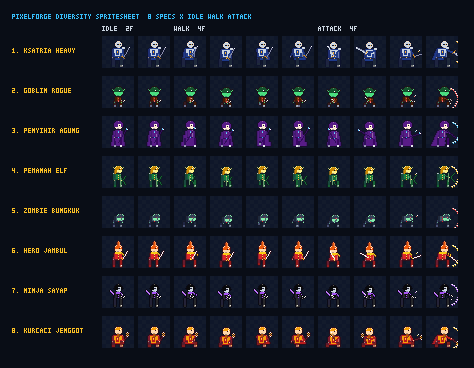
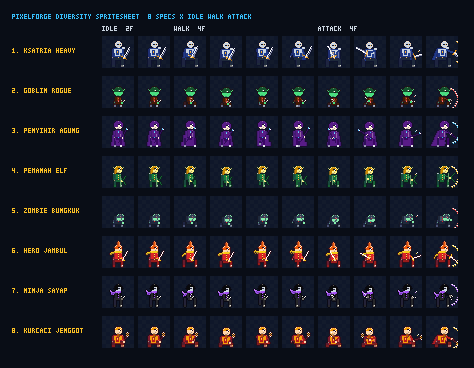
feat: enhance anime character aesthetics, facial expressions, scarf flutter, and weapon scaling

diff --git a/src/utils/pixelEngine.ts b/src/utils/pixelEngine.ts
@@ -764,7 +764,7 @@ export function drawCharacterCelFromSpec(
   }
 
   // ── Layer 1: Back Leg ──
-  const backLegX = cx - Math.floor(torsoW / 2) + Math.round(pose.legBackX * scale);
+  const backLegX = torsoX + Math.round(pose.legBackX * scale);
   const backLegGround = groundY - Math.round(pose.legBackLift * scale);
   const backLegLen = Math.max(1, backLegGround - hipYPosed - Math.round(2 * scale));
   drawBodyRect(backLegX, hipYPosed, legW, backLegLen, ramps.secondary.shadow);
@@ -826,6 +826,10 @@ export function drawCharacterCelFromSpec(
     setBodyPixel(cx, torsoY + Math.round(3 * scale), ramps.accent.light);
   }
 
+  // Pelvis / Hips connector under belt
+  const pelvisH = Math.max(1, Math.round(1.5 * scale));
+  drawBodyRect(torsoX + 1, hipYPosed, torsoW - 2, pelvisH, ramps.secondary.base);
+
   // Shoulder pad accessory
   if (accessories.includes('shoulder_pad')) {
     const spW = Math.max(2, Math.round(3 * scale));
@@ -839,7 +843,7 @@ export function drawCharacterCelFromSpec(
   setBodyPixel(cx, hipYPosed - Math.round(1 * scale), accessories.includes('belt') ? ramps.accent.light : ramps.accent.base);
 
   // ── Layer 4: Front Leg ──
-  const frontLegX = cx + Math.round((1 + pose.legFrontX) * scale);
+  const frontLegX = torsoX + torsoW - legW + Math.round(pose.legFrontX * scale);
   const frontLegGround = groundY - Math.round(pose.legFrontLift * scale);
   const frontLegLen = Math.max(1, frontLegGround - hipYPosed - Math.round(2 * scale));
   drawBodyRect(frontLegX, hipYPosed, legW, frontLegLen, ramps.secondary.base);
@@ -873,13 +877,13 @@ export function drawCharacterCelFromSpec(
   setBodyPixel(headX, headY + headRInt, ramps.skin.shadow);
   setBodyPixel(headX - 1, headY + headRInt, ramps.skin.shadow);
 
-  // Hair rendering (5 styles)
+  // Hair rendering (5 styles + anime clumped locks)
   if (spec.head === 'bare') {
     if (hairStyle === 'none') {
       // Bald — just skin, add highlight
       setBodyPixel(headX, headY - headRInt, ramps.skin.light);
     } else if (hairStyle === 'short') {
-      // Short hair — top hemisphere
+      // Short anime hair — top hemisphere with front bang and sideburn
       for (let dy = -headRInt; dy <= 0; dy++) {
         for (let dx = -headRInt; dx <= headRInt; dx++) {
           if (dx * dx + dy * dy <= headR * headR) {
@@ -888,8 +892,14 @@ export function drawCharacterCelFromSpec(
         }
       }
       setBodyPixel(headX, headY - headRInt, ramps.hair.light);
+      // Front bangs over forehead
+      setBodyPixel(headX + 1, headY - 1, ramps.hair.base);
+      setBodyPixel(headX + 2, headY - 1, ramps.hair.base);
+      setBodyPixel(headX, headY - 1, ramps.hair.light);
+      // Back tuft
+      setBodyPixel(headX - headRInt - 1, headY - 1, ramps.hair.base);
     } else if (hairStyle === 'spiky') {
-      // Spiky hair — top with spikes jutting upward
+      // Spiky / Jabrik anime hair — voluminous with layered tufts, bangs, and back spikes
       for (let dy = -headRInt; dy <= 0; dy++) {
         for (let dx = -headRInt; dx <= headRInt; dx++) {
           if (dx * dx + dy * dy <= headR * headR) {
@@ -897,7 +907,7 @@ export function drawCharacterCelFromSpec(
           }
         }
       }
-      // Spikes
+      // Crown spikes (top-right and center peaks)
       const spikeH = Math.max(2, Math.round(3 * scale));
       for (let s = 0; s < spikeH; s++) {
         setBodyPixel(headX - 1, headY - headRInt - s - 1, ramps.hair.base);
@@ -905,6 +915,20 @@ export function drawCharacterCelFromSpec(
         if (s < spikeH - 1) setBodyPixel(headX, headY - headRInt - s - 2, ramps.hair.light);
       }
       setBodyPixel(headX + 2, headY - headRInt - 1, ramps.hair.shadow);
+      setBodyPixel(headX - 2, headY - headRInt - 1, ramps.hair.shadow);
+
+      // Back spikes jutting leftwards behind head
+      setBodyPixel(headX - headRInt - 1, headY - 2, ramps.hair.base);
+      setBodyPixel(headX - headRInt - 2, headY - 2, ramps.hair.shadow);
+      setBodyPixel(headX - headRInt - 1, headY - 1, ramps.hair.base);
+      setBodyPixel(headX - headRInt - 2, headY, ramps.hair.shadow);
+      setBodyPixel(headX - headRInt - 1, headY + 1, ramps.hair.shadow);
+
+      // Forehead bangs and side tufts
+      setBodyPixel(headX + 1, headY - 1, ramps.hair.base);
+      setBodyPixel(headX + 2, headY - 1, ramps.hair.base);
+      setBodyPixel(headX, headY - 1, ramps.hair.light);
+      setBodyPixel(headX + 2, headY - 2, ramps.hair.light);
     } else if (hairStyle === 'long') {
       // Long flowing hair
       for (let dy = -headRInt; dy <= 0; dy++) {
@@ -922,6 +946,8 @@ export function drawCharacterCelFromSpec(
         if (f < flowLen) setBodyPixel(headX - headRInt + 1, headY + f, ramps.hair.base);
       }
       setBodyPixel(headX, headY - headRInt, ramps.hair.light);
+      // Front side bang
+      setBodyPixel(headX + 1, headY - 1, ramps.hair.base);
     } else if (hairStyle === 'jambul') {
       // Jambul (spiky crest/mohawk)
       for (let dy = -headRInt; dy <= 0; dy++) {
@@ -931,7 +957,7 @@ export function drawCharacterCelFromSpec(
           }
         }
       }
-      // Tall central crest
+      // Tall central crest with backward sweep
       const crestH = Math.max(3, Math.round(4 * scale));
       for (let c = 0; c < crestH; c++) {
         setBodyPixel(headX, headY - headRInt - c - 1, ramps.hair.base);
@@ -939,6 +965,9 @@ export function drawCharacterCelFromSpec(
         setBodyPixel(headX + 1, headY - headRInt - c, ramps.hair.light);
       }
       setBodyPixel(headX, headY - headRInt - crestH, ramps.hair.light);
+      // Back tufts
+      setBodyPixel(headX - headRInt - 1, headY - 1, ramps.hair.shadow);
+      setBodyPixel(headX + 1, headY - 1, ramps.hair.base);
     }
 
     // Goblin pointy ears (from archetype)
@@ -1028,7 +1057,7 @@ export function drawCharacterCelFromSpec(
     setBodyPixel(headX, headY + headRInt + beardLen + 1, ramps.hair.shadow);
   }
 
-  // Eyes & expression (3 explicit variants: 0: dot+glint, 1: slit/focused, 2: wide anime round, 3: visor/eyepatch)
+  // Eyes & expression (3/4 anime eyes with sclera, pupil, highlight, and eyebrow)
   if (spec.head !== 'helmet_closed') {
     const eyeX = headX + Math.round(1 * scale);
     const eyeY = headY;
@@ -1048,23 +1077,40 @@ export function drawCharacterCelFromSpec(
       setBodyPixel(eyeX, eyeY, ramps.secondary.shadow);
       setBodyPixel(eyeX + 1, eyeY - 1, ramps.metal.light);
     } else {
-      // Standard dot eye with glint
-      setBodyPixel(eyeX, eyeY, pal.outline);
-      setBodyPixel(eyeX + 1, eyeY - 1, pal.highlight);
+      // Expressive 3/4 Anime Eye: eyebrow + dark upper lash + white sclera + dark pupil + catchlight
+      // Eyebrow
+      setBodyPixel(eyeX - 1, eyeY - 1, pal.outline);
+      setBodyPixel(eyeX, eyeY - 1, pal.outline);
+      // Eye body: Sclera & pupil
+      setBodyPixel(eyeX, eyeY, pal.highlight); // White sclera
+      setBodyPixel(eyeX + 1, eyeY, pal.outline); // Dark pupil
+      setBodyPixel(eyeX + 1, eyeY - 1, pal.highlight); // Glint
+      // Mouth/chin hint
+      setBodyPixel(headX + 1, headY + headRInt - 1, ramps.skin.shadow);
     }
   }
 
-  // Scarf accessory (around neck)
+  // Scarf accessory (around neck, trailing gracefully to the LEFT behind the character)
   if (accessories.includes('scarf')) {
-    const scarfY = headY + headRInt + 1;
+    const scarfY = headY + headRInt;
     const scarfW = Math.max(3, torsoW - Math.round(1 * scale));
-    drawBodyRect(cx - Math.floor(scarfW / 2), scarfY, scarfW, Math.max(1, Math.round(2 * scale)), ramps.accent.base);
-    // Trailing tail with cape sway
-    const tailLen = Math.max(2, Math.round(3 * scale));
-    for (let t = 0; t < tailLen; t++) {
-      const sway = Math.round(pose.capeSway * (t + 1) * 0.5 * scale);
-      setBodyPixel(cx + Math.floor(scarfW / 2) + t + sway, scarfY + t, ramps.accent.base);
-      setBodyPixel(cx + Math.floor(scarfW / 2) + t + sway, scarfY + t + 1, ramps.accent.shadow);
+    const cowlX = cx - Math.floor(scarfW / 2);
+    // Voluminous cowl around the neck
+    drawBodyRect(cowlX, scarfY, scarfW, Math.max(1, Math.round(2 * scale)), ramps.accent.base);
+    setBodyPixel(cowlX, scarfY, ramps.accent.light);
+    setBodyPixel(cowlX + scarfW - 1, scarfY + 1, ramps.accent.shadow);
+
+    // Two trailing fluttering tails waving backwards (to the LEFT)
+    const tailLen = Math.max(3, Math.round(5 * scale));
+    for (let t = 1; t <= tailLen; t++) {
+      const sway = Math.round(pose.capeSway * t * 0.4 * scale);
+      // Upper tail
+      setBodyPixel(cowlX - t, scarfY + Math.round(t * 0.3) + sway, ramps.accent.base);
+      setBodyPixel(cowlX - t, scarfY + Math.round(t * 0.3) + sway + 1, ramps.accent.shadow);
+      // Lower secondary ribbon tail
+      if (t <= tailLen - 1) {
+        setBodyPixel(cowlX - t - 1, scarfY + Math.round(t * 0.5) + sway + 1, ramps.accent.shadow);
+      }
     }
   }
 
@@ -1074,14 +1120,19 @@ export function drawCharacterCelFromSpec(
   const frontRad = (pose.armFront * Math.PI) / 180;
   const frontHandX = Math.round(frontShoulderX + Math.sin(frontRad) * armLen);
   const frontHandY = Math.round(frontShoulderY + Math.cos(frontRad) * armLen);
+  const armThick = Math.max(1, Math.round(scale));
 
   for (let s = 0; s <= armLen; s++) {
     const ax = Math.round(frontShoulderX + (frontHandX - frontShoulderX) * (s / armLen));
     const ay = Math.round(frontShoulderY + (frontHandY - frontShoulderY) * (s / armLen));
-    setBodyPixel(ax, ay, ramps.primary.base);
-    if (L.armThickness >= 2) setBodyPixel(ax, ay + 1, ramps.primary.base);
+    for (let th = 0; th < armThick; th++) {
+      setBodyPixel(ax, ay + th, ramps.primary.base);
+      if (L.armThickness >= 2) setBodyPixel(ax, ay + th + 1, ramps.primary.base);
+    }
   }
-  setBodyPixel(frontHandX, frontHandY, accessories.includes('gloves') ? ramps.secondary.light : ramps.skin.base);
+  // Hand / Gauntlet
+  const handR = Math.max(1, Math.round(scale));
+  drawBodyRect(frontHandX - Math.floor(handR / 2), frontHandY - Math.floor(handR / 2), handR + 1, handR + 1, accessories.includes('gloves') ? ramps.secondary.light : ramps.skin.base);
 
   // ── Layer 8: Weapon ──
   if (spec.weapon !== 'none') {
@@ -1097,12 +1148,18 @@ export function drawCharacterCelFromSpec(
       const bladeLen = Math.max(6, Math.round(baseBlade * scale));
       const guardPerpX = -dirY;
       const guardPerpY = dirX;
-      setBodyPixel(frontHandX + guardPerpX, frontHandY + guardPerpY, ramps.accent.base);
-      setBodyPixel(frontHandX - guardPerpX, frontHandY - guardPerpY, ramps.accent.base);
-      if (wVar === 1) {
-        setBodyPixel(frontHandX + guardPerpX * 2, frontHandY + guardPerpY * 2, ramps.accent.shadow);
-        setBodyPixel(frontHandX - guardPerpX * 2, frontHandY - guardPerpY * 2, ramps.accent.shadow);
+      const guardLen = Math.max(1, Math.round(1.5 * scale));
+
+      for (let g = 1; g <= guardLen; g++) {
+        setBodyPixel(frontHandX + Math.round(guardPerpX * g), frontHandY + Math.round(guardPerpY * g), ramps.accent.base);
+        setBodyPixel(frontHandX - Math.round(guardPerpX * g), frontHandY - Math.round(guardPerpY * g), ramps.accent.base);
       }
+      if (wVar === 1) {
+        setBodyPixel(frontHandX + Math.round(guardPerpX * (guardLen + 1)), frontHandY + Math.round(guardPerpY * (guardLen + 1)), ramps.accent.shadow);
+        setBodyPixel(frontHandX - Math.round(guardPerpX * (guardLen + 1)), frontHandY - Math.round(guardPerpY * (guardLen + 1)), ramps.accent.shadow);
+      }
+
+      const bladeThick = Math.max(1, Math.round(scale));
       for (let b = 1; b <= bladeLen; b++) {
         let bx = Math.round(frontHandX + dirX * b);
         let by = Math.round(frontHandY + dirY * b);
@@ -1111,9 +1168,13 @@ export function drawCharacterCelFromSpec(
           bx += Math.round(guardPerpX * curve);
           by += Math.round(guardPerpY * curve);
         }
-        setBodyPixel(bx, by, b === bladeLen ? pal.highlight : ramps.metal.base);
+        for (let t = 0; t < bladeThick; t++) {
+          const tx = bx + Math.round(guardPerpX * t);
+          const ty = by + Math.round(guardPerpY * t);
+          setBodyPixel(tx, ty, b === bladeLen || t === 0 ? pal.highlight : ramps.metal.base);
+        }
         if (wVar === 1 && b < bladeLen - 1) {
-          setBodyPixel(bx + guardPerpX, by + guardPerpY, ramps.metal.shadow);
+          setBodyPixel(bx + Math.round(guardPerpX * bladeThick), by + Math.round(guardPerpY * bladeThick), ramps.metal.shadow);
         }
       }
     } else if (spec.weapon === 'axe') {

diff --git a/scripts/render-sheet.ts b/scripts/render-sheet.ts
@@ -434,7 +434,124 @@ async function renderDiversitySheet() {
   console.log(`Successfully generated ${outPath} (${totalWidth}x${totalHeight}px, ${pngBuffer.length} bytes)`);
 }
 
-renderDiversitySheet().catch(err => {
-  console.error('Failed to render diversity sheet:', err);
+async function renderHeroReferenceSheet() {
+  console.log('Generating Hero Reference Sprite Sheet (3x4 at 64x64) matching character_spritesheet_3x4.jpg...');
+
+  const spriteSize = 64;
+  const cols = 4;
+  const rows = 3;
+  const padding = 16;
+  const spacing = 8;
+  const headerHeight = 28;
+
+  const totalWidth = padding * 2 + cols * (spriteSize + spacing) - spacing;
+  const totalHeight = padding * 2 + headerHeight + rows * (spriteSize + spacing) - spacing;
+
+  const canvas: number[][][] = [];
+  for (let y = 0; y < totalHeight; y++) {
+    const row: number[][] = [];
+    for (let x = 0; x < totalWidth; x++) {
+      // Magenta chroma-key #ff00ff background like character_spritesheet_3x4.jpg
+      row.push([255, 0, 255, 255]);
+    }
+    canvas.push(row);
+  }
+
+  // Draw Header
+  drawText(canvas, 'HERO SPRITESHEET 3X4 (64PX CELL - MATCHING REFERENCE)', padding, padding + 2, [0, 0, 0, 255]);
+  drawText(canvas, 'ROW 1: IDLE (4F)  |  ROW 2: WALK (4F)  |  ROW 3: ATTACK (4F)', padding, padding + 14, [40, 40, 40, 255]);
+
+  const heroSpec: CharacterSpec = {
+    ...DEFAULT_SPEC,
+    name: 'Hero Adventurer',
+    archetype: 'fighter',
+    body: 'normal',
+    head: 'bare',
+    hairStyle: 'spiky',
+    weapon: 'sword',
+    offhand: 'none',
+    cape: 'none',
+    proportions: {
+      height: 'normal',
+      headSize: 'normal',
+      torsoWidth: 2,
+      legLength: 'normal',
+      armThickness: 1,
+    },
+    variants: {
+      hair: 1,
+      head: 0,
+      torso: 0,
+      weapon: 0,
+    },
+    traits: ['none'],
+    accessories: ['scarf', 'belt', 'boots'],
+    palette: {
+      skin: '#fed7aa',
+      hair: '#ea580c',
+      primary: '#16a34a',
+      secondary: '#2563eb',
+      accent: '#dc2626',
+      metal: '#e2e8f0',
+    },
+  };
+
+  const animRows = [
+    POSES.idle.slice(0, 4),
+    POSES.walk.slice(0, 4),
+    POSES.attack.slice(0, 4),
+  ];
+
+  for (let r = 0; r < rows; r++) {
+    const poses = animRows[r];
+    const rowY = padding + headerHeight + r * (spriteSize + spacing);
+
+    for (let c = 0; c < cols; c++) {
+      const pose = poses[c];
+      const { body, fx } = drawCharacterCelFromSpec(heroSpec, pose, spriteSize);
+      const postProcessed = postProcessFrame(body, fx, heroSpec, spriteSize - 4);
+      const cellX = padding + c * (spriteSize + spacing);
+
+      for (let py = 0; py < spriteSize; py++) {
+        for (let px = 0; px < spriteSize; px++) {
+          const hex = postProcessed[py][px];
+          if (hex !== 'transparent') {
+            const { r: cr, g: cg, b: cb, a: ca } = hexToRgba(hex);
+            const cy = rowY + py;
+            const cx = cellX + px;
+            canvas[cy][cx] = [cr, cg, cb, Math.round(ca * 255)];
+          }
+        }
+      }
+    }
+  }
+
+  const flat = new Uint8Array(totalWidth * totalHeight * 4);
+  let idx = 0;
+  for (let y = 0; y < totalHeight; y++) {
+    for (let x = 0; x < totalWidth; x++) {
+      const [r, g, b, a] = canvas[y][x];
+      flat[idx++] = r;
+      flat[idx++] = g;
+      flat[idx++] = b;
+      flat[idx++] = a;
+    }
+  }
+
+  const outDir = path.resolve(process.cwd(), 'out');
+  const pngBuffer = createPngBuffer(totalWidth, totalHeight, flat);
+  const outPath = path.join(outDir, 'hero-reference-sheet.png');
+  fs.writeFileSync(outPath, pngBuffer);
+
+  console.log(`Successfully generated ${outPath} (${totalWidth}x${totalHeight}px, ${pngBuffer.length} bytes)`);
+}
+
+async function main() {
+  await renderDiversitySheet();
+  await renderHeroReferenceSheet();
+}
+
+main().catch(err => {
+  console.error('Failed to render sheets:', err);
   process.exit(1);
 });
